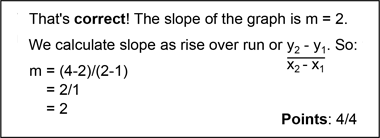
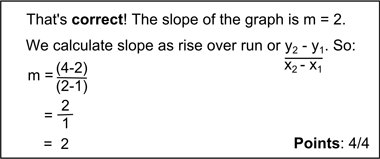
update correct/incorrect images, make tour headings bold.

diff --git a/emas/theme/static/css/styles.css b/emas/theme/static/css/styles.css
@@ -1214,11 +1214,10 @@ input.sign-in.homebutton {
 #answer-correct-img,
 #answer-incorrect-img {
     position: absolute;
-    top: 105px;
+    top: 100px;
     left: 15px;
-    height: 138px;	
+    height: 159px;	
     width: 380px;
-    margin: 1px;
 } 
 
 #answer-correct-img {
